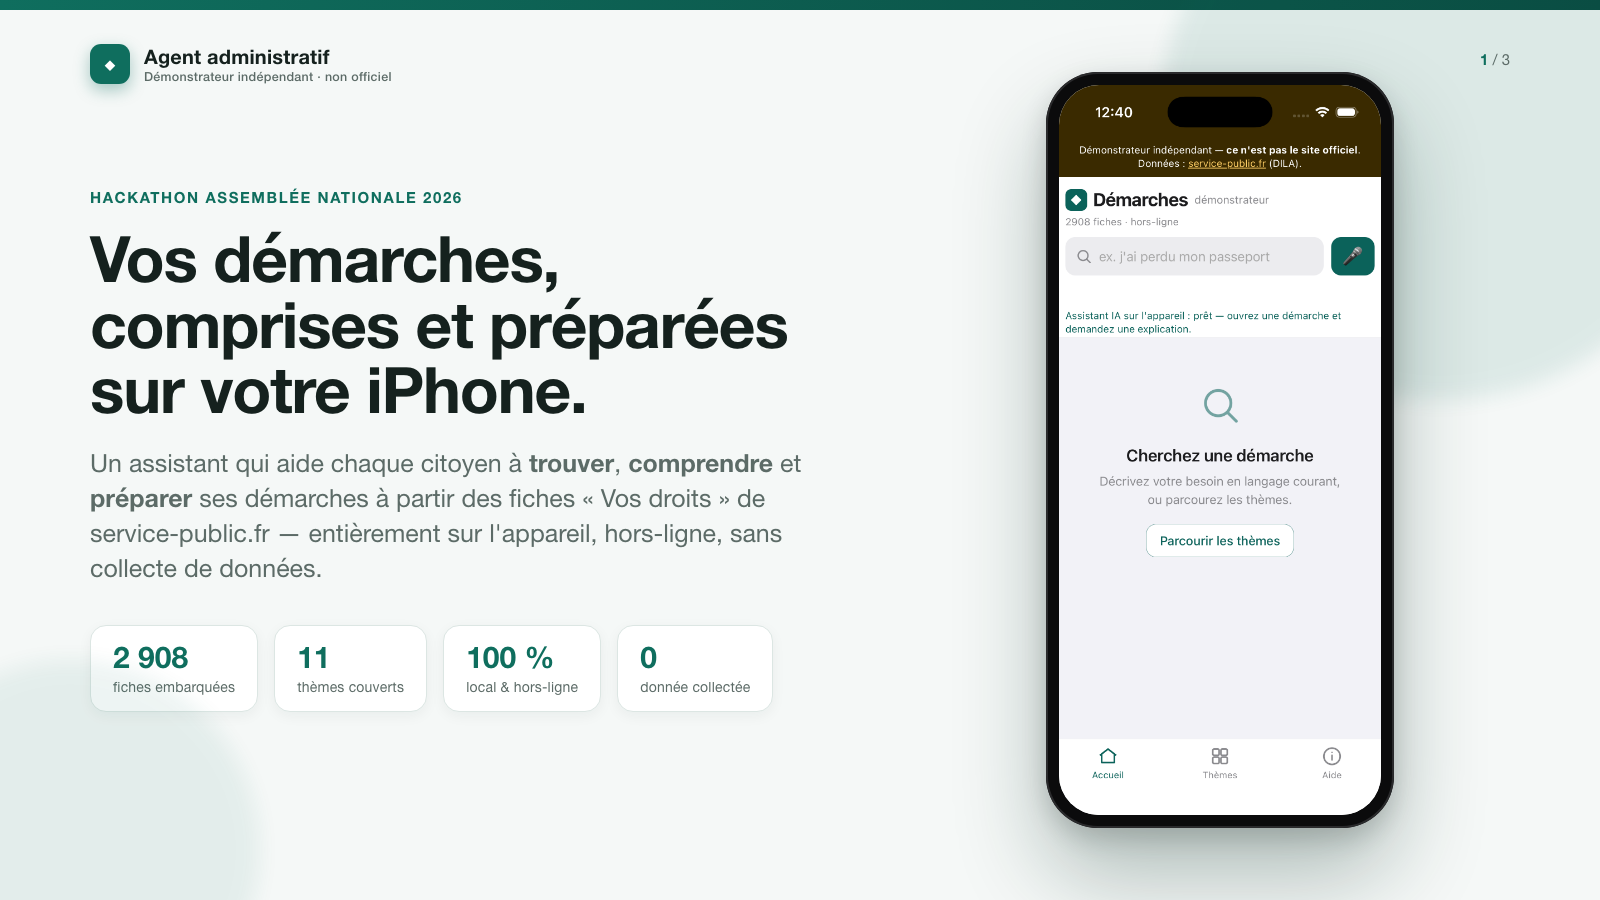
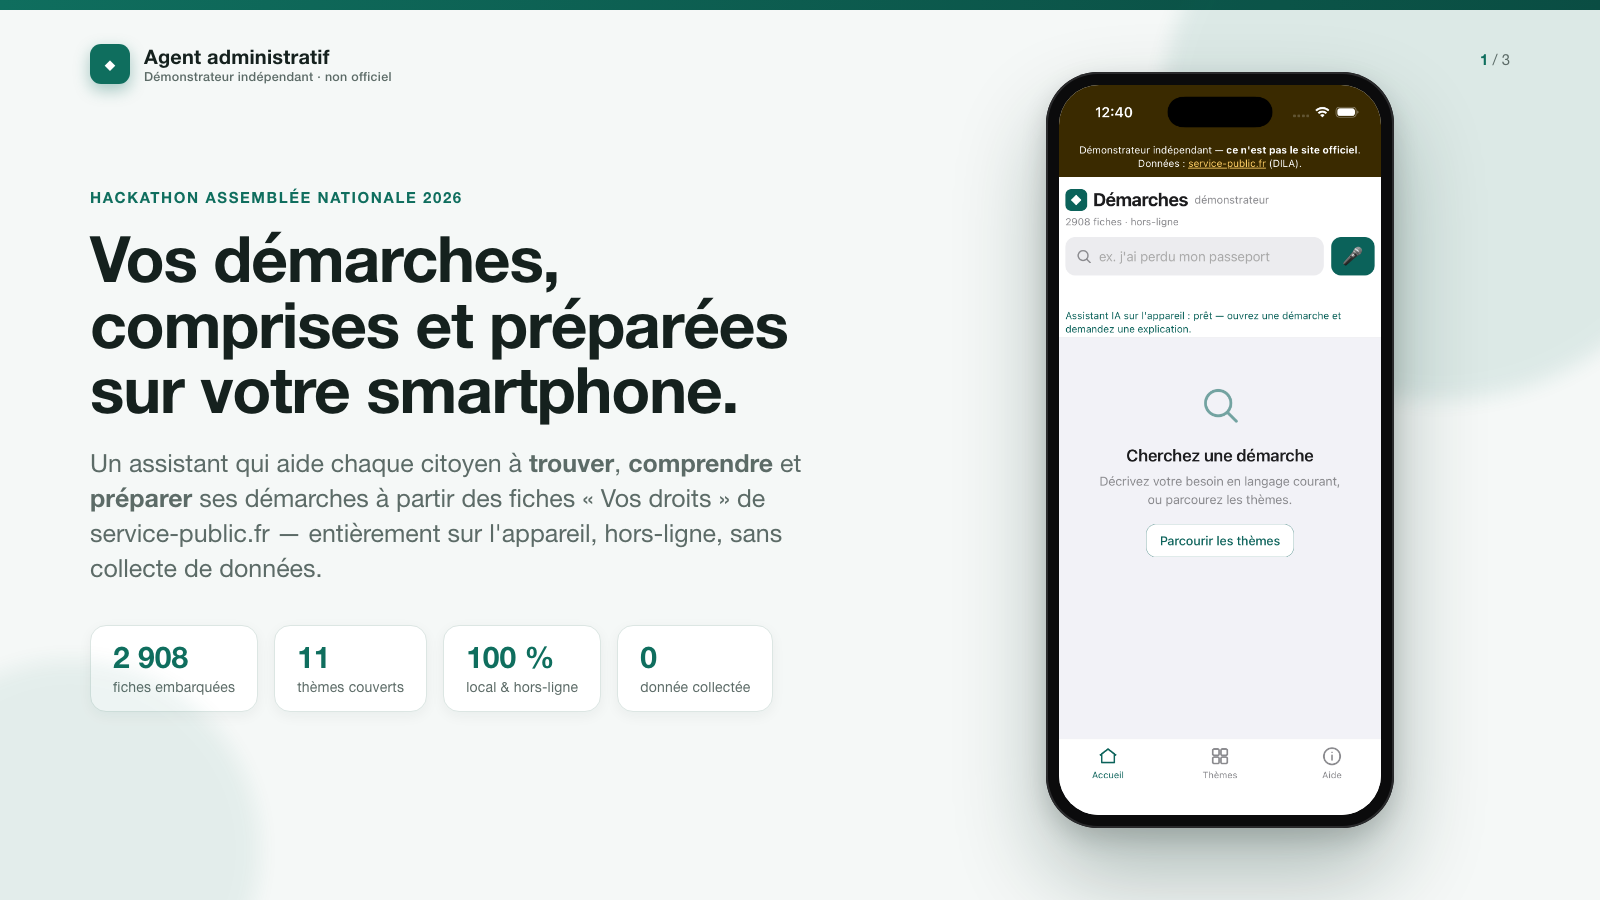
Slide 1 : « smartphone » au lieu de « iPhone » (app iOS + Android)

Changed region(s): [[0.2188, 0.4044, 0.4688, 0.4667]]

diff --git a/hackathon-an-2026/DEFI.md b/hackathon-an-2026/DEFI.md
@@ -66,7 +66,7 @@ Cochez les ressources utilisées en remplaçant `[ ]` par `[x]`.
 <!-- Note : ce projet s'appuie sur les fiches « Vos droits » de service-public.fr (DILA, Licence Ouverte 2.0). Si vous avez utilisé la base/API/MCP unifiée « Service Public », cochez la ou les entrées `an-et-co-…-regroupement-toutes-donnees` correspondantes. -->
 
 ### Galerie
-- ![Diapositive 1 — Vos démarches, comprises et préparées sur iPhone (2 908 fiches, 100 % local et hors-ligne)](images/slide-1.png)
+- ![Diapositive 1 — Vos démarches, comprises et préparées sur votre smartphone (2 908 fiches, 100 % local et hors-ligne)](images/slide-1.png)
 - ![Diapositive 2 — Comprendre l'intention : recherche hybride (BM25 + e5) et reformulation active](images/slide-2.png)
 - ![Diapositive 3 — Préparer sa démarche : assistant local, déroulé pas à pas, tout reste sur l'appareil](images/slide-3.png)
 - ![Reformulation active : la recherche « appendicite » propose des démarches précises à valider](images/image-1.png)